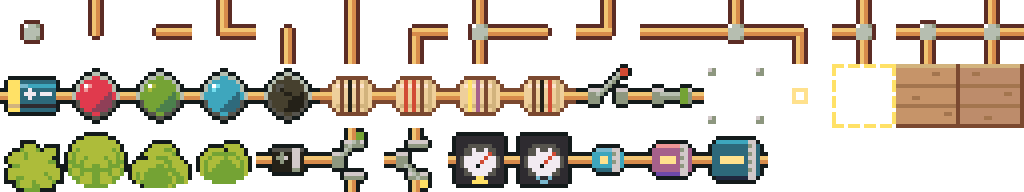
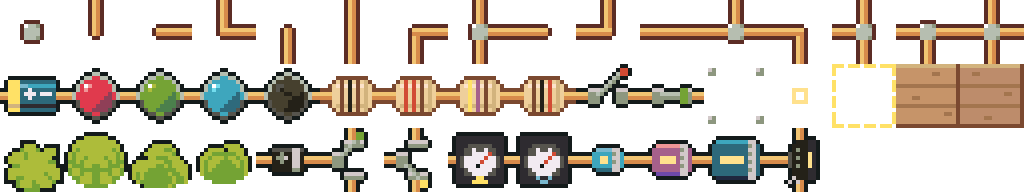
Map toolbox: hills with ladders, caves, stepping stones, hidden chests; Maple Lane gets a lookout hill and a pond chest; polish plan

Changed region(s): [[0.75, 0.6562, 0.8125, 1.0]]

diff --git a/src/world/builder.ts b/src/world/builder.ts
@@ -184,6 +184,19 @@ const TREES = {
 } as const;
 export type TreeStyle = keyof typeof TREES;
 
+/** Raised ground (village pack, relief sheet): 3×3 slices, and 1-wide strips for narrow ridges. */
+const RELIEF = {
+  green: { slice: slice('relief', 1), strip: [0, 20, 40].map((i) => at('relief', i)) },
+  sand: { slice: slice('relief', 101), strip: [100, 120, 140].map((i) => at('relief', i)) },
+} as const;
+export type ReliefStyle = keyof typeof RELIEF;
+/** The plain wall tiles (left, middle, right) that stack above a plateau's cliff edge to make it taller. */
+const WALL = { green: [24, 25, 26].map((i) => at('relief', i)), sand: [124, 125, 126].map((i) => at('relief', i)) } as const;
+const LADDER = { green: at('reliefDetail', 15), sand: at('reliefDetail', 51) } as const;
+/** Cave mouths set into a hillside: 3×3, door in the bottom middle. */
+const CAVES = { green: cut('reliefDetail', 84, 3, 3), sand: cut('reliefDetail', 87, 3, 3) } as const;
+const CHEST = at('element', 19);
+
 /** One-tile props: atlas tile, and whether it blocks the way. */
 export const PROPS = {
   bench: { t: city(250), solid: true },
@@ -566,6 +579,65 @@ export class MapBuilder {
         this.object(x + i, y + j, 1, 1, [along === 'h' ? TILES.planks : TILES.planksV], undefined, true);
         if (this.inside(x + i, y + j)) this.walkable[(y + j) * this.width + x + i] = 1;
       }
+  }
+
+  // ── Hills, caves, stones and chests ───────────────────────────────────────
+
+  /**
+   * A raised hill seen from the front: grass on top, a cliff face along the bottom. Its rim
+   * (left, right, top and the cliff) is solid; the inside is walkable. Get up with a ladder.
+   * Needs w ≥ 3 and h ≥ 3 to have an inside.
+   */
+  plateau(x: number, y: number, w: number, h: number, style: ReliefStyle = 'green') {
+    const r = RELIEF[style];
+    // The cliff is two tiles tall when there's room: plain wall, then the cliff's ragged foot.
+    const tall = h >= 5 && w >= 3;
+    for (let j = 0; j < h; j++)
+      for (let i = 0; i < w; i++) {
+        const row = j === 0 ? 0 : j === h - 1 ? 2 : 1;
+        const col = i === 0 ? 0 : i === w - 1 ? 2 : 1;
+        const wall = tall && j === h - 2;
+        this.setGround(x + i, y + j, wall ? WALL[style][col]! : w === 1 ? r.strip[row]! : r.slice[row * 3 + col]!);
+        const rim = i === 0 || i === w - 1 || j === 0 || j >= h - (tall ? 2 : 1);
+        if (rim && this.inside(x + i, y + j)) this.solid[(y + j) * this.width + x + i] = 1;
+        else if (this.inside(x + i, y + j)) this.solid[(y + j) * this.width + x + i] = 0;
+        this.taken.add((y + j) * this.width + x + i);
+      }
+  }
+
+  /** A ladder up a cliff face (the cell on the plateau's bottom row). Opens a way through the rim. */
+  ladder(x: number, y: number, style: ReliefStyle = 'green') {
+    // Up the whole face: the bottom row y, and the wall row above it if the cliff is tall.
+    for (const yy of [y, y - 1]) {
+      if (!this.inside(x, yy)) continue;
+      if (yy !== y && !this.solid[yy * this.width + x]) continue;
+      this.setDecal(x, yy, LADDER[style]);
+      this.solid[yy * this.width + x] = 0;
+    }
+  }
+
+  /** A cave mouth in a hillside. Solid; its doorway is the spot at (x+1, y+2). Returns that cell. */
+  cave(x: number, y: number, style: ReliefStyle = 'green'): Point {
+    this.object(x, y, 3, 3, CAVES[style].slice());
+    this.block(x, y, 3, 3);
+    for (let j = 0; j < 3; j++) for (let i = 0; i < 3; i++) this.taken.add((y + j) * this.width + x + i);
+    return { x: x + 1, y: y + 2 };
+  }
+
+  /** Stepping stones across water: you can walk on each one. */
+  stones(cells: (readonly [number, number])[]) {
+    for (const [x, y] of cells) {
+      if (!this.inside(x, y)) continue;
+      this.object(x, y, 1, 1, [at('water', 12)], undefined, true);
+      this.walkable[y * this.width + x] = 1;
+    }
+  }
+
+  /** A hidden chest of sparks. Solid, so you stand beside it. */
+  chest(id: string, x: number, y: number, sparks: number) {
+    this.object(x, y, 1, 1, [CHEST]);
+    this.block(x, y, 1, 1);
+    this.spots.push({ kind: 'chest', x, y, id, sparks });
   }
 
   // ── Things standing on the ground ─────────────────────────────────────────

diff --git a/src/world-view/WorldScreen.tsx b/src/world-view/WorldScreen.tsx
@@ -12,6 +12,7 @@ import { Platform, Pressable, ScrollView, StyleSheet, View } from 'react-native'
 import { type SaveData, dayKey, totalStars } from '../game/save';
 import { outfitSprite } from '../game/shop';
 import { GAMES } from '../game/games';
+import { buzz } from '../ui/haptics';
 import { PERSON_SECRETS, SECRETS, secretKey, secretsIn } from '../game/lore';
 import { NOTES, SCENES, type Scene } from '../game/story';
 import { LEVELS } from '../levels/levels';
@@ -97,7 +98,7 @@ interface Talk {
 }
 
 export function WorldScreen({ map, worldId }: { map: WorldMap; worldId: string }) {
-  const { save, markSeen } = useGame();
+  const { save, markSeen, commitSave } = useGame();
   const solved = useMemo(() => solvedIn(save), [save]);
   const lit = useMemo(() => litGroups(map, solved), [map, solved]);
   const residents = useMemo(() => presentResidents(map, solved, lit), [map, solved, lit]);
@@ -116,8 +117,15 @@ export function WorldScreen({ map, worldId }: { map: WorldMap; worldId: string }
   const areaIndex = useCallback((x: number, y: number) => map.areaOf[y * map.width + x] ?? 255, [map]);
   // Secrets still to find twinkle, once their part of the route is open.
   const sparkles = useMemo(
-    () => map.spots.flatMap((sp) => (sp.kind === 'secret' && !found(sp.secret) && areaIndex(sp.x, sp.y) < open ? [{ x: sp.x, y: sp.y }] : [])),
-    [map, found, areaIndex, open],
+    () =>
+      map.spots.flatMap((sp) =>
+        (sp.kind === 'secret' && !found(sp.secret)) || (sp.kind === 'chest' && !save.seen.includes(chestKey(sp.id)))
+          ? areaIndex(sp.x, sp.y) < open
+            ? [{ x: sp.x, y: sp.y }]
+            : []
+          : [],
+      ),
+    [map, found, areaIndex, open, save.seen],
   );
   // The Lantern Lady, glimpsed in the distance: there until you get close.
   const ghosts = useMemo(
@@ -366,12 +374,19 @@ export function WorldScreen({ map, worldId }: { map: WorldMap; worldId: string }
             { label: 'Not now', tone: 'cream', onPress: close },
           ],
         });
+      } else if (s.kind === 'chest') {
+        if (save.seen.includes(chestKey(s.id))) setChat({ lines: [{ who: 'pip', text: 'Empty now. It was a good one, though.' }] });
+        else {
+          commitSave({ ...save, sparks: save.sparks + s.sparks, seen: [...save.seen, chestKey(s.id)] });
+          buzz.win();
+          setChat({ lines: [{ who: 'pip', text: `A hidden chest! Inside: ⚡${s.sparks} sparks. Bzzt, what a find!` }] });
+        }
       } else if (s.kind === 'secret') {
         const sec = SECRETS[s.secret];
         if (sec) setChat({ lines: sec.lines, seenId: secretKey(sec.id) });
       }
     },
-    [map, save, solved, startJob, close, talkToPip, go, askChoice],
+    [map, save, commitSave, solved, startJob, close, talkToPip, go, askChoice],
   );
 
   const facingTarget = useCallback((): Target | null => {
@@ -629,6 +644,8 @@ function LanternGauge({ value }: { value: number }) {
   );
 }
 
+const chestKey = (id: string) => `chest:${id}`;
+
 function labelFor(t: Target): string {
   if (t.kind === 'gate') return 'Look';
   if (t.kind === 'resident') return t.resident.who === 'pip' ? 'Talk to Pip' : 'Talk';
@@ -646,6 +663,8 @@ function labelFor(t: Target): string {
       return 'Read';
     case 'secret':
       return 'Look';
+    case 'chest':
+      return 'Open';
     case 'game':
       return 'Play';
   }

diff --git a/src/world/glowtown.ts b/src/world/glowtown.ts
@@ -114,12 +114,43 @@ function mapleLane(b: MapBuilder) {
   b.tree(19, 17, 'round');
   b.prop(34, 19, 'mailbox');
   for (const [x, y] of [[24, 25], [26, 25], [41, 25], [35, 18], [36, 18]] as const) b.flowers(x, y);
+  mapleExtras(b);
   b.treeLine(18, 45, 'top', 12, ['round', 'oak', 'cherry', 'lime']);
   b.treeLine(18, 45, 'bottom', 31, ['round', 'oak', 'lime', 'bigGreen']);
   for (const [x, y] of [[20, 28], [29, 13], [42, 13], [24, 29], [39, 29]] as const) b.bush(x, y);
   for (const [x, y] of [[21, 14], [33, 14], [34, 14], [19, 29], [41, 30]] as const) b.flowers(x, y);
   b.spots.push({ kind: 'note', x: 44, y: 20, note: 'circle' });
   b.prop(44, 20, 'sign');
+}
+
+/**
+ * Maple Lane's two side trips, which have to be painted before the tree lines so the trees
+ * leave room: a grassy hill with a lookout (path north from the lane, ladder up the cliff),
+ * and a pond with a little island you can reach on stepping stones.
+ */
+function mapleExtras(b: MapBuilder) {
+  // The hill. Its cliff face is row 10; the ladder is at x=35.
+  b.plateau(28, 3, 15, 8, 'green');
+  b.ladder(35, 10, 'green');
+  b.path('dirt', [{ x: 35, y: 22 }, { x: 35, y: 11 }], 2);
+  // On top: a bench with a view, a lamp, a tree, and a chest tucked in the back corner.
+  b.prop(33, 6, 'bench');
+  b.prop(34, 6, 'bench');
+  b.lamp(38, 5, 'area:maple', 'park');
+  b.tree(30, 6, 'cherry');
+  b.tree(41, 5, 'bigPink');
+  for (const x of [32, 36, 37, 39]) b.flowers(x, 8);
+  b.chest('maple-hill', 40, 8, 25);
+  b.spots.push({ kind: 'sign', x: 35, y: 12, text: 'A hill to the north, with a ladder up the rock. You can see the whole lane from the top, I bet!' });
+  b.prop(35, 12, 'sign');
+
+  // The pond, with an island and stones to it.
+  b.blob('pond', 40, 34.5, 5.5, 3.2, 0.12);
+  b.path('dirt', [{ x: 39, y: 26 }, { x: 39, y: 30 }], 2);
+  b.stones([[39, 31], [39, 32], [39, 33], [39, 34]]);
+  b.chest('maple-pond', 39, 34, 20);
+  for (const [x, y] of [[35, 33], [44, 31], [45, 36]] as const) b.prop(x, y, 'reeds');
+  b.prop(37, 30, 'lily');
 }
 
 // ── A2: Willow Brook ─────────────────────────────────────────────────────────

diff --git a/src/world/atlas.generated.ts b/src/world/atlas.generated.ts
@@ -4,7 +4,7 @@
 export const ATLAS_COLS = 33;
 
 /** Where each source sheet sits in the atlas: its first row, and its width in tiles. */
-export const SHEETS = {"city":{"row":0,"cols":27},"floor":{"row":18,"cols":22},"nature":{"row":45,"cols":24},"water":{"row":66,"cols":28},"house":{"row":83,"cols":33},"element":{"row":106,"cols":16},"detail":{"row":121,"cols":16},"field":{"row":126,"cols":5},"abandoned":{"row":141,"cols":20},"towers":{"row":153,"cols":24},"town":{"row":159,"cols":16},"deep":{"row":177,"cols":16}} as const;
+export const SHEETS = {"city":{"row":0,"cols":27},"floor":{"row":18,"cols":22},"nature":{"row":45,"cols":24},"water":{"row":66,"cols":28},"house":{"row":83,"cols":33},"element":{"row":106,"cols":16},"detail":{"row":121,"cols":16},"field":{"row":126,"cols":5},"abandoned":{"row":141,"cols":20},"towers":{"row":153,"cols":24},"town":{"row":159,"cols":16},"deep":{"row":177,"cols":16},"relief":{"row":188,"cols":20},"reliefDetail":{"row":200,"cols":12}} as const;
 
 export type SheetId = keyof typeof SHEETS;
 

diff --git a/src/world/types.ts b/src/world/types.ts
@@ -71,6 +71,8 @@ export type Spot =
   | { kind: 'secret'; x: number; y: number; secret: string }
   /** The way to another world: the night bus, or Glimmer's bubble down the well and back. */
   | { kind: 'exit'; x: number; y: number; to: string; via?: 'bus' | 'bubble' }
+  /** A hidden chest: opens once, pays sparks, and is remembered in the save (seen `chest:<id>`). */
+  | { kind: 'chest'; x: number; y: number; id: string; sparks: number }
   /** A mini-game to play (game/games.ts). */
   | { kind: 'game'; x: number; y: number; game: GameSpot };
 

diff --git a/docs/PLAN-polish.md b/docs/PLAN-polish.md
@@ -1,0 +1,82 @@
+# Polish plan: make the worlds interesting (overnight run, 2026-11-03)
+
+## The problem (what the maps look like now)
+
+Each world is a 40-tile-high strip with **one road**, buildings lined up along it and a wall of
+trees above and below. Nothing is higher or lower than anything else, there is one bridge in
+the whole game, nothing to see off the road, and nothing hidden. It reads as a corridor.
+
+## What other games do (research)
+
+Sources: Anatomy of Games (ALttP), Game Developer analyses of ALttP and Breath of the Wild,
+Bulbapedia (Pokemon roadblocks and ledges), plus general level-design knowledge from Zelda,
+Pokemon, Stardew, Earthbound, Hyper Light Drifter, Cat Quest, Eastward.
+
+1. **One secret per screen at most** (ALttP). Cut each map into ~20x12 "screens"; most get one
+   small discovery.
+2. **Landmarks you can see from far away** (BotW towers). Each region gets one tall, high-contrast
+   silhouette.
+3. **Show the goal before the route.** Visible-but-unreachable things (a bridge, a cave, a chest
+   on an island) make the detour the goal.
+4. **Soft, diegetic gates**: water, cliffs, a broken bridge. For us the gate is a circuit.
+5. **Routes bend, fork and loop.** Main path wide, side paths narrow, one fork ends in a reward.
+6. **Hint, then reward.** Telegraph every secret (odd tree, path stub, sparkle, NPC rumour) and
+   always pay it off.
+7. **Elevation and edges**: cliffs, stairs, shores, ponds, a plateau. No flat rectangles.
+8. **Clutter with purpose**: props in "story corners", not evenly sprinkled; empty clearings are
+   rewards if they hold one thing.
+9. **Collectibles make micro-goals**, with a visible counter.
+10. **Each world has an identity** you can name from a screenshot.
+
+## What we have to build with
+
+- **Cliffs, ladders and cave doors** are in the village pack (`TilesetRelief.png`,
+  `TilesetReliefDetail.png`) but were never put in the atlas. Adding them gives plateaus.
+- Ponds, sea, sand, dirt, dark dirt, stone, boardwalks and bridges already exist.
+- The secrets system (`lore.ts`), sightings (Glimmer in the distance), residents, gates and the
+  shader lighting already exist.
+
+## Stages
+
+### Stage 1: the toolbox (me)
+
+- Put the relief sheets in the atlas; recolour the pale plateau top to grass/sand so cliffs sit
+  in the world.
+- `MapBuilder`: `plateau`, `ladder`, `cave`, `stones` (stepping stones over water), `pond`
+  helpers, `ridge` (a ragged band of plateaus for map edges).
+- A **chest** spot (opens once, pays sparks, remembered in the save) and a **lanterns found**
+  counter in the HUD.
+- Tests: every new piece is walkable or solid exactly where it should be; every chest and
+  grotto is reachable; no secret is walled in.
+
+### Stage 2: the maps (parallel, one world each)
+
+Each world keeps its jobs, areas and gates, and gets its surroundings rebuilt:
+
+| World | Identity | New set-pieces |
+|---|---|---|
+| Glowtown | a valley town with a brook | a hill with a lookout (plateau + ladder), a pond with stepping stones to an island chest, a hidden grotto behind trees, a loop path round the pond, second bridge |
+| Driftwood Harbour | sea cliffs and docks | a cliff terrace with the lighthouse climb, tide pools, a sea cave, a jetty to a tiny island, rowboat props |
+| Mossbell Hollow | a boggy hollow with ruins | boardwalks across a marsh, a stone circle, a mill pond, ruin nooks with lore, a path that only appears at 11:52 clue |
+| Brightwater Deep | a sunken town | reef ridges, alcoves, vent chimneys with bubbles, a hidden dome |
+
+Rules for every map: break the tree wall into groves, clearings, ridges and ponds; add at
+least one fork that rejoins; 2-3 hidden things with a hint each; one tall landmark.
+
+### Stage 3: animation and feel
+
+- Water that shimmers, shore foam, drifting leaves, fireflies at night, lamp flicker, grass sway.
+- Footstep dust and ripples in shallows; a splash when stepping on stones.
+- Sparkle on every unopened chest/secret; chest-open pop with sparks counting up.
+- Screen transitions and button press feel (UI), nicer area-name banners when entering a place.
+
+### Stage 4: ship
+
+- `tsc`, `lint`, `vitest`, map previews for all four worlds, play-test in the browser.
+- Log as version **v0.9** (tag, screenshots, decisions) in `docs/history`.
+- Push after every stage so nothing is lost overnight.
+
+## Out of scope tonight (ideas for later)
+
+Pushable rocks, one-way ledges, fishing, day/night, NPC routines, a cat that leads you to
+secrets.
